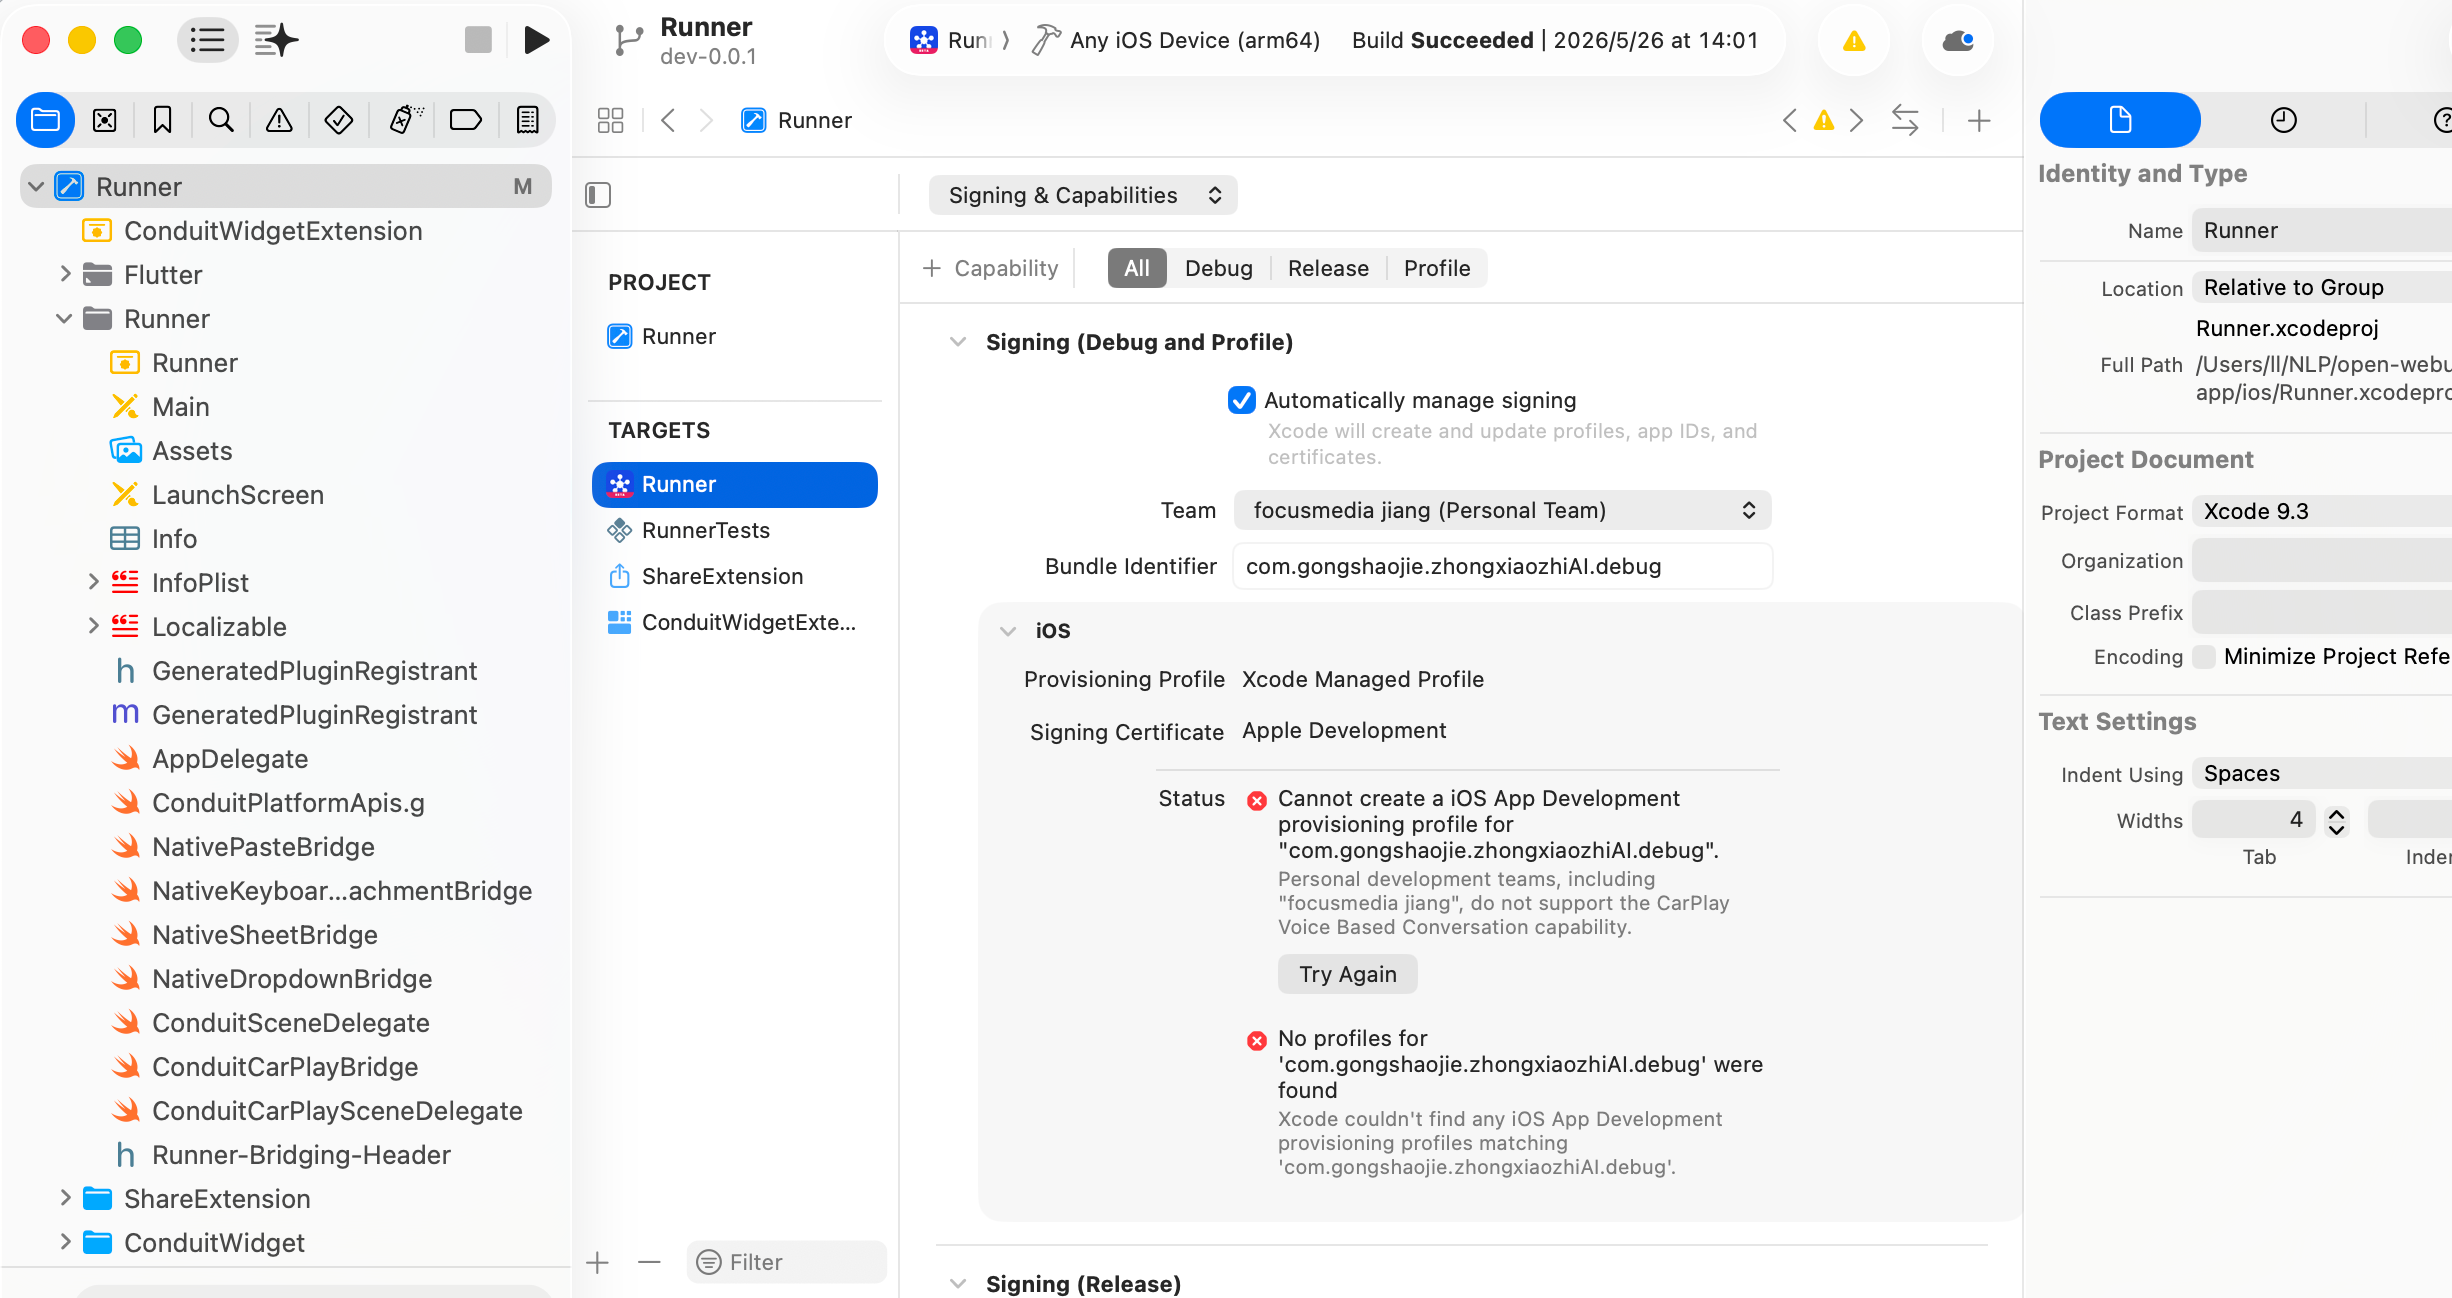
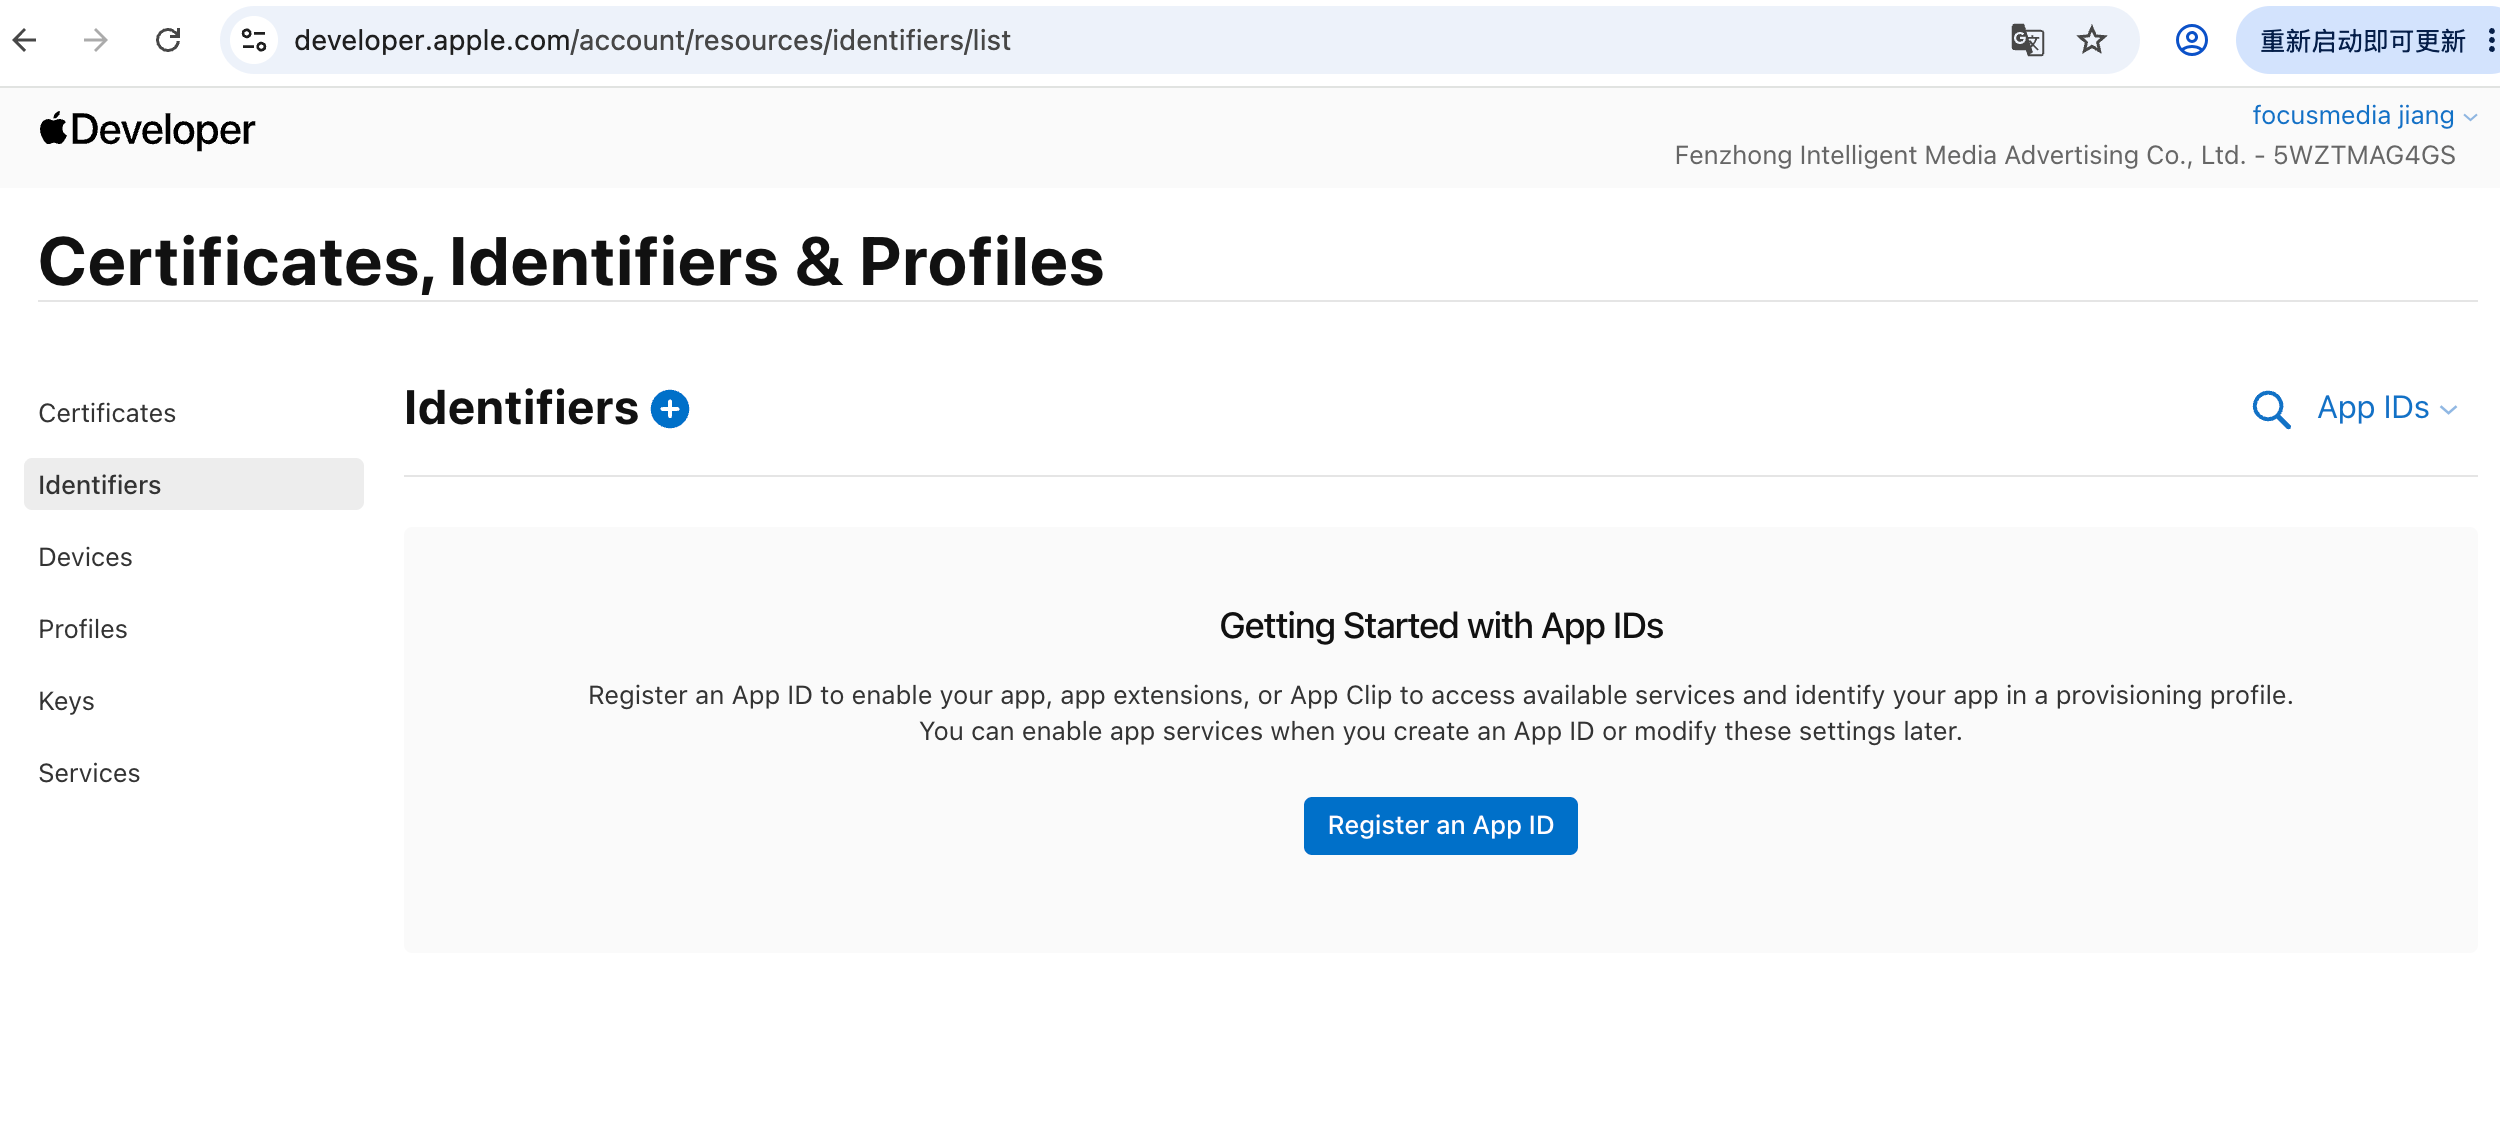
update apple group id

diff --git a/lib/core/services/home_widget_service.dart b/lib/core/services/home_widget_service.dart
@@ -30,10 +30,11 @@ class WidgetActions {
 }
 
 /// App group identifier for iOS widget data sharing.
-const String _releaseAppGroupId = 'group.app.cogwheel.conduit';
-const String _debugAppGroupId = 'group.app.cogwheel.conduit.x2662v5dt2.debug';
-
-String get _appGroupId => kReleaseMode ? _releaseAppGroupId : _debugAppGroupId;
+///
+/// Must match the App Group in the iOS entitlements and the `APP_GROUP_ID`
+/// build setting for every target (Runner / ShareExtension / ConduitWidget).
+/// Debug and Release share the same group, so no build-mode split here.
+const String _appGroupId = 'group.5WZTMAG4GS.zhongxiaozhi';
 
 /// Android widget provider class name.
 const String _qualifiedAndroidWidgetName =